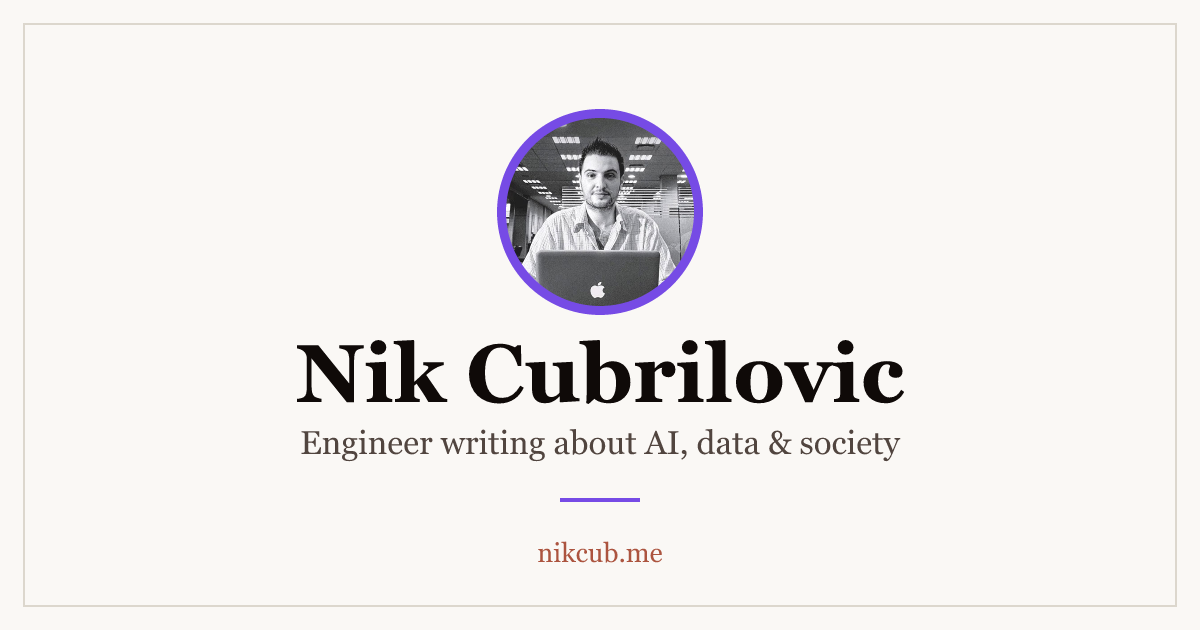
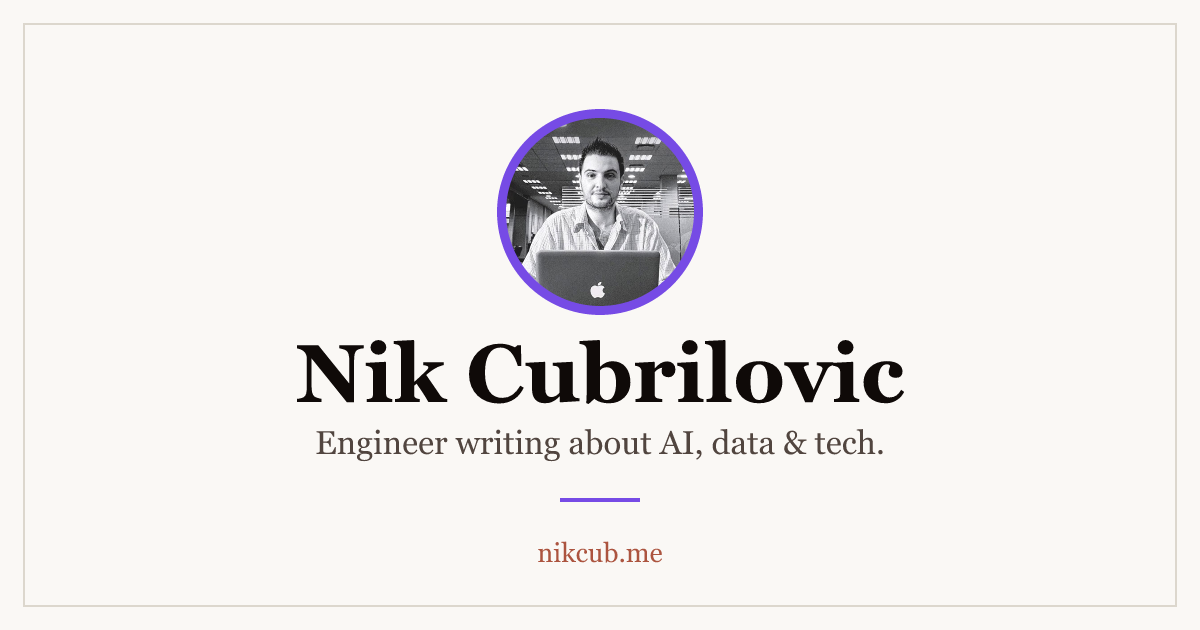
chore(site): tagline "AI, data & tech." across header, SEO, hero, OG card

Changed region(s): [[0.2467, 0.6635, 0.7708, 0.754]]

diff --git a/src/routes/index.tsx b/src/routes/index.tsx
@@ -8,9 +8,9 @@ import { seo } from "@/lib/seo"
 export const Route = createFileRoute("/")({
   head: () =>
     seo({
-      title: "Nik Cubrilovic | AI, Data Engineering & Digital Society",
+      title: "Nik Cubrilovic | AI, Data Engineering & Tech",
       description:
-        "Engineer writing about AI, data engineering, and digital society. Long-form articles and observations on technology's impact on our world.",
+        "Engineer writing about AI, data engineering, and tech. Long-form articles and observations on technology.",
       path: "/",
     }),
   component: HomePage,
@@ -25,9 +25,8 @@ function HomePage() {
       <div className="mb-16">
         <h1 className="sr-only">Nik Cubrilovic - Engineer</h1>
         <p className="text-lg leading-relaxed text-foreground">
-          I write about AI, data engineering, and the intersection of technology
-          and society. Building systems, exploring ideas, and examining how
-          technology shapes our digital world.
+          I write about AI, data engineering, and tech. Building systems,
+          exploring ideas, and writing down what I learn along the way.
         </p>
         <Link
           href="/about"

diff --git a/scripts/generate-og.ts b/scripts/generate-og.ts
@@ -31,7 +31,7 @@ const svg = `<svg xmlns="http://www.w3.org/2000/svg" width="1200" height="630" v
   <text x="${cx}" y="402" text-anchor="middle" font-family="Georgia" font-weight="bold"
     font-size="82" fill="${FG}">Nik Cubrilovic</text>
   <text x="${cx}" y="454" text-anchor="middle" font-family="Georgia"
-    font-size="33" fill="${MUT}">Engineer writing about AI, data &amp; society</text>
+    font-size="33" fill="${MUT}">Engineer writing about AI, data &amp; tech.</text>
   <line x1="${cx - 40}" y1="500" x2="${cx + 40}" y2="500" stroke="${PUR}" stroke-width="4"/>
   <text x="${cx}" y="562" text-anchor="middle" font-family="Georgia" font-weight="500"
     font-size="27" fill="${PRI}">nikcub.me</text>

diff --git a/src/lib/site.ts b/src/lib/site.ts
@@ -1,9 +1,8 @@
 export const siteConfig = {
   name: "Nik Cubrilovic",
-  title:
-    "Nik Cubrilovic | Engineer writing about AI, data, and digital society",
+  title: "Nik Cubrilovic | Engineer writing about AI, data, and tech",
   description:
-    "Engineer writing about AI, data engineering, and digital society. Long-form articles and observations on technology's impact on our world.",
+    "Engineer writing about AI, data engineering, and tech. Long-form articles and observations on technology.",
   url: "https://nikcub.me",
   ogImage: "/og-default.png",
   author: "Nik Cubrilovic",

diff --git a/src/routes/$.tsx b/src/routes/$.tsx
@@ -16,7 +16,7 @@ export const Route = createFileRoute("/$")({
     return seo({
       title: meta.title,
       description:
-        meta.excerpt || "Engineer writing about AI, data, and digital society",
+        meta.excerpt || "Engineer writing about AI, data, and tech",
       path: `/${meta.slug}`,
       image: meta.featureImage,
     })

diff --git a/src/components/site-header.tsx b/src/components/site-header.tsx
@@ -23,7 +23,7 @@ export function SiteHeader() {
                 </div>
               </Link>
               <p className="mt-1 text-sm text-muted-foreground">
-                Engineer writing about AI, data &amp; society
+                Engineer writing about AI, data &amp; tech.
               </p>
             </div>
           </div>
